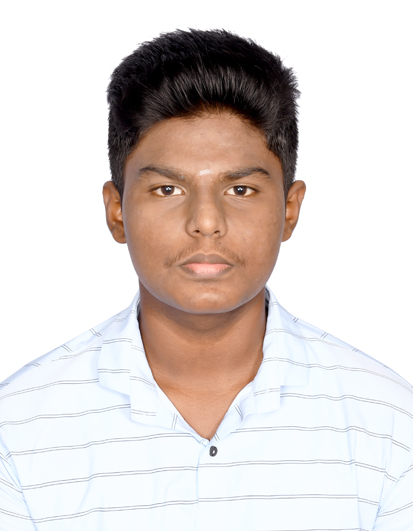
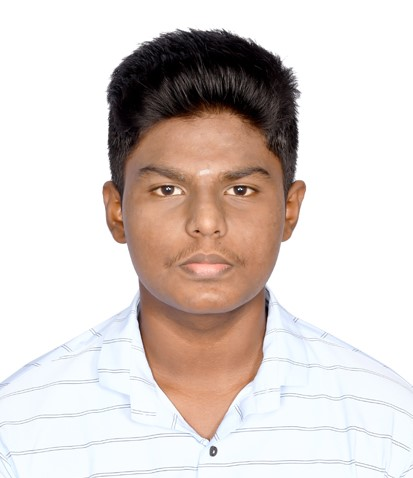
New Projects

diff --git a/index.html b/index.html
@@ -53,6 +53,12 @@
                     Converter</a>
             </li>
             <li class="project-text">
+                <a href="https://github.com/rajeshwar3/Projects/tree/main/Web_Development/To_Do_List">To-do list</a>
+            </li>
+            <li class="project-text">
+                <a href="https://github.com/rajeshwar3/Projects/tree/main/Web_Development/Contact_Form_With_%20Captcha">Contact Form with Captcha</a>
+            </li>
+            <li class="project-text">
                 <a href="https://github.com/rajeshwar3/Projects/tree/main/Arduino_Projects/Line_Follwer_Robot">Line Follower Robot</a>
             </li>
             <li class="project-text">

diff --git a/styles.css b/styles.css
@@ -41,6 +41,8 @@ header {
 
 .home-img {
     border-radius: 200%;
+    /* max-height: 80%; */
+    max-width: 50%;
 }
 
 .home-about {
